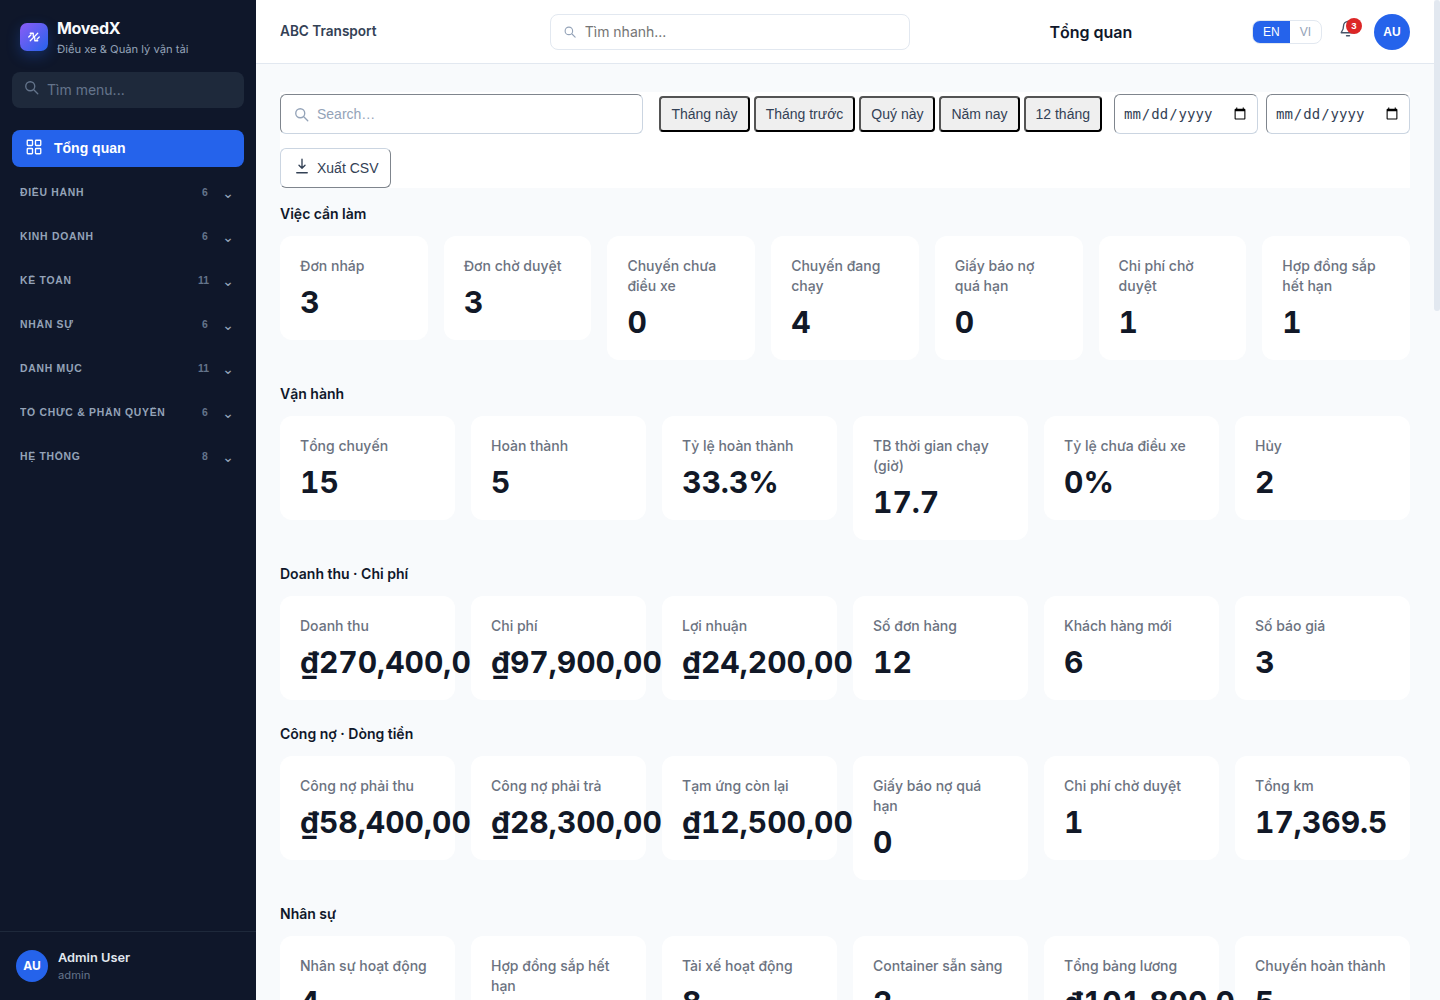
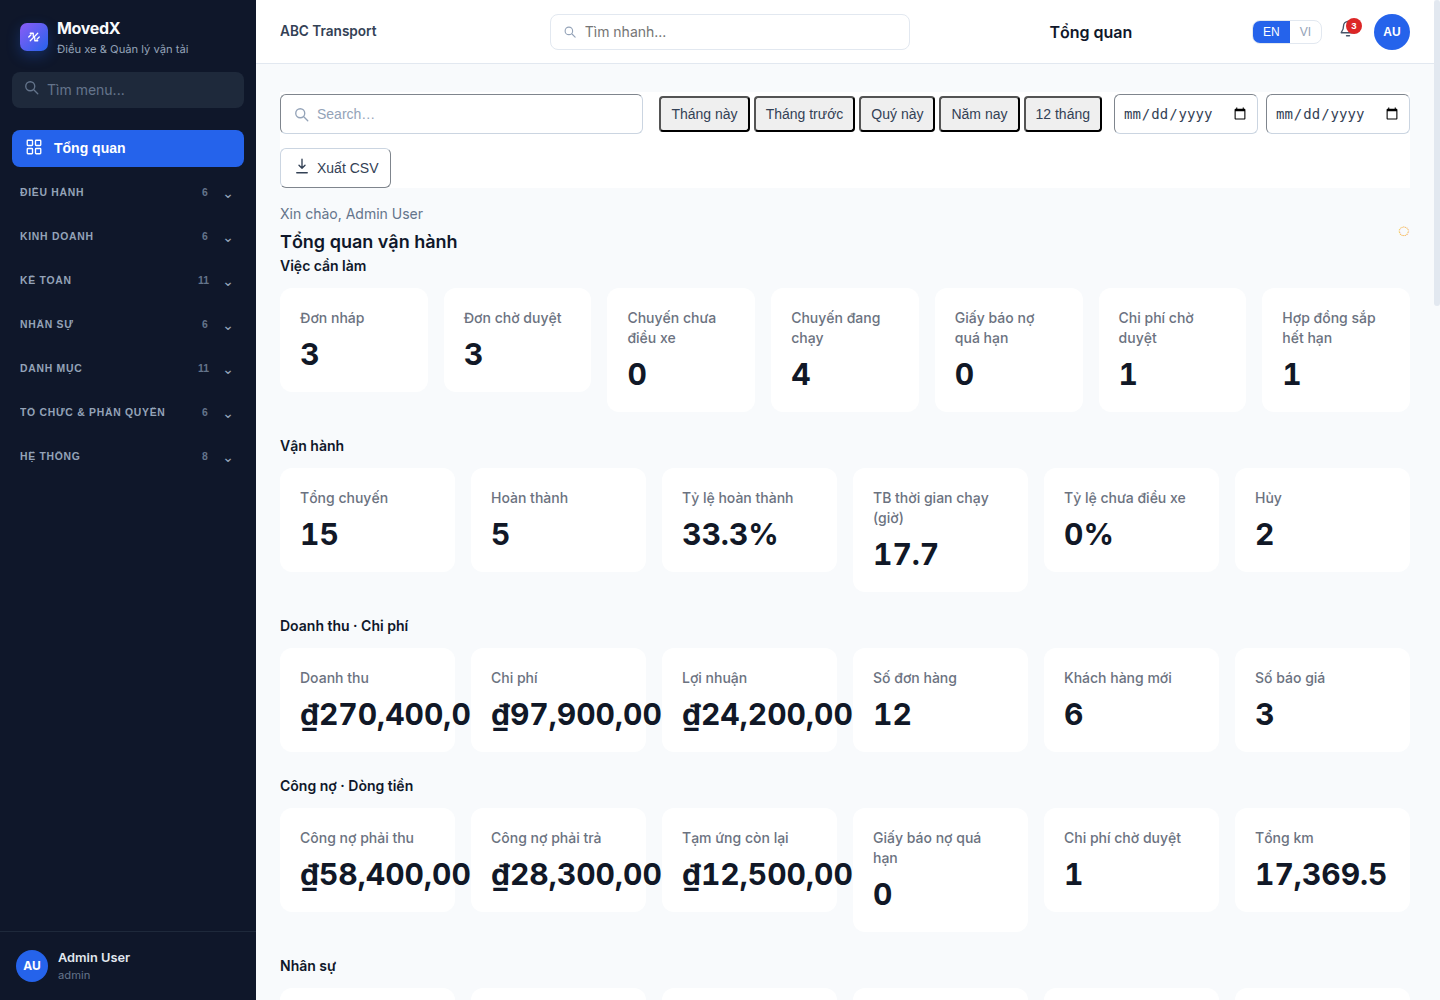
Add declarative dashboard greeting

diff --git a/lib/components/PageIntro.ts b/lib/components/PageIntro.ts
@@ -1,0 +1,18 @@
+import { html } from '../html.ts';
+import { BaseComponent } from '../runtime.ts';
+
+export class PageIntro extends BaseComponent {
+  draw(container: HTMLElement) {
+    const greeting = String(this.state.greeting || 'Xin chào');
+    const user = (globalThis as any).__CORE3_USER__;
+    const name = String(user?.name || '');
+    const root = html.take(container).div.className('page-intro flex items-center justify-between gap-3').getContext();
+    const copy = html.take(root).div.getContext();
+    html.take(copy).p.className('text-sm text-slate-500').text(name ? `${greeting}, ${name}` : greeting);
+    if (this.state.title) html.take(copy).h2.className('mt-1 text-lg font-semibold text-slate-900').text(String(this.state.title));
+    if (this.state.description) html.take(copy).p.className('mt-1 text-sm text-slate-500').text(String(this.state.description));
+    if (this.state.action_label) {
+      html.take(root).span.className('text-xl text-amber-500').text('◌');
+    }
+  }
+}

diff --git a/lib/test/cases/page-intro.test.ts b/lib/test/cases/page-intro.test.ts
@@ -1,0 +1,27 @@
+import { afterEach, describe, expect, it } from 'vitest';
+import { PageIntro } from '../../components/PageIntro.ts';
+
+function mount(component: PageIntro) {
+  const container = document.createElement('div');
+  component.mount(container);
+  return container;
+}
+
+describe('PageIntro', () => {
+  afterEach(() => {
+    delete (globalThis as any).__CORE3_USER__;
+  });
+
+  it('renders the authenticated user greeting and declarative copy', () => {
+    (globalThis as any).__CORE3_USER__ = { name: 'Admin User' };
+    const container = mount(new PageIntro('dashboard-intro', {
+      greeting: 'Xin chào',
+      title: 'Tổng quan vận hành',
+      description: 'Theo dõi hoạt động hôm nay',
+    }));
+
+    expect(container.textContent).toContain('Xin chào, Admin User');
+    expect(container.textContent).toContain('Tổng quan vận hành');
+    expect(container.textContent).toContain('Theo dõi hoạt động hôm nay');
+  });
+});

diff --git a/lib/page-renderer.ts b/lib/page-renderer.ts
@@ -1007,6 +1007,14 @@ export async function renderPage(config: any, { container = document.body }: { c
 
   async function renderComponentDef(def: any, targetContainer: HTMLElement) {
     switch (def.type) {
+      case 'PageIntro': {
+        const { PageIntro } = await import('./components/PageIntro.ts');
+        const component = new PageIntro(def.id || `${config.page.id}-intro`, def);
+        const slot = document.createElement('div');
+        targetContainer.appendChild(slot);
+        component.mount(slot);
+        break;
+      }
       case 'ComingSoon': {
         const { ComingSoon } = await import('./components/ComingSoon.ts');
         const component = new ComingSoon(def.id || `${config.page.id}-coming-soon`, def);

diff --git a/lib/yaml/schema.ts b/lib/yaml/schema.ts
@@ -112,6 +112,7 @@ const ACTION_KEYS: Record<ActionDefinition['type'], Set<string>> = {
 };
 
 const COMPONENT_KEYS = new Map<string, Set<string>>([
+  ['PageIntro', new Set(['type', 'greeting', 'title', 'description', 'action_label'])],
   ['ComingSoon', new Set(['type', 'id', 'eyebrow', 'title', 'description', 'icon'])],
   ['DataGrid', new Set(['type', 'source', 'page_size', 'row_key', 'empty_state', 'columns', 'selectable', 'column_chooser'])],
   ['GridView', new Set(['type', 'source', 'page_size', 'columns'])],

diff --git a/.scratch/movedx-feature-parity/evidence/completion-audit.md b/.scratch/movedx-feature-parity/evidence/completion-audit.md
@@ -11,11 +11,12 @@ Audited 2026-07-26 against `.scratch/movedx-feature-parity/PRD.md`.
 - Every route has local desktop/tablet evidence, including the five provisional legacy pages.
 - Every registered SPA path has a page-loader mapping and serves the shell on direct navigation; deep-link 404s are covered by the route audit.
 - A disposable fresh-database workflow audit completes 13 representative named transitions across orders, quotes, financial documents, payroll, and trip cancellation.
-- Named workflow actions, field allowlists, and audit writes remain server-authorized; framework tests pass 140/140.
+- Named workflow actions, field allowlists, and audit writes remain server-authorized; framework tests pass 141/141.
 - Dashboard period controls match the supplied reference states with segmented `Tháng này`, `Tháng trước`, `Quý này`, `Năm nay`, and `12 tháng` presets at desktop and tablet widths.
 - Dashboard KPI information architecture now matches the supplied reference sections, including the seven-card task row, six-card operating/financial/HR rows, and VND financial formatting.
 - Operations navigation now exposes all six reference entries and maps each to a registered SPA route.
 - The shell reads the seeded company profile through an authenticated server endpoint and renders tenant identity in the header; it is not hard-coded in the client.
+- Dashboard renders a declarative in-page greeting using the authenticated user runtime state.
 
 ## Not Proven
 
